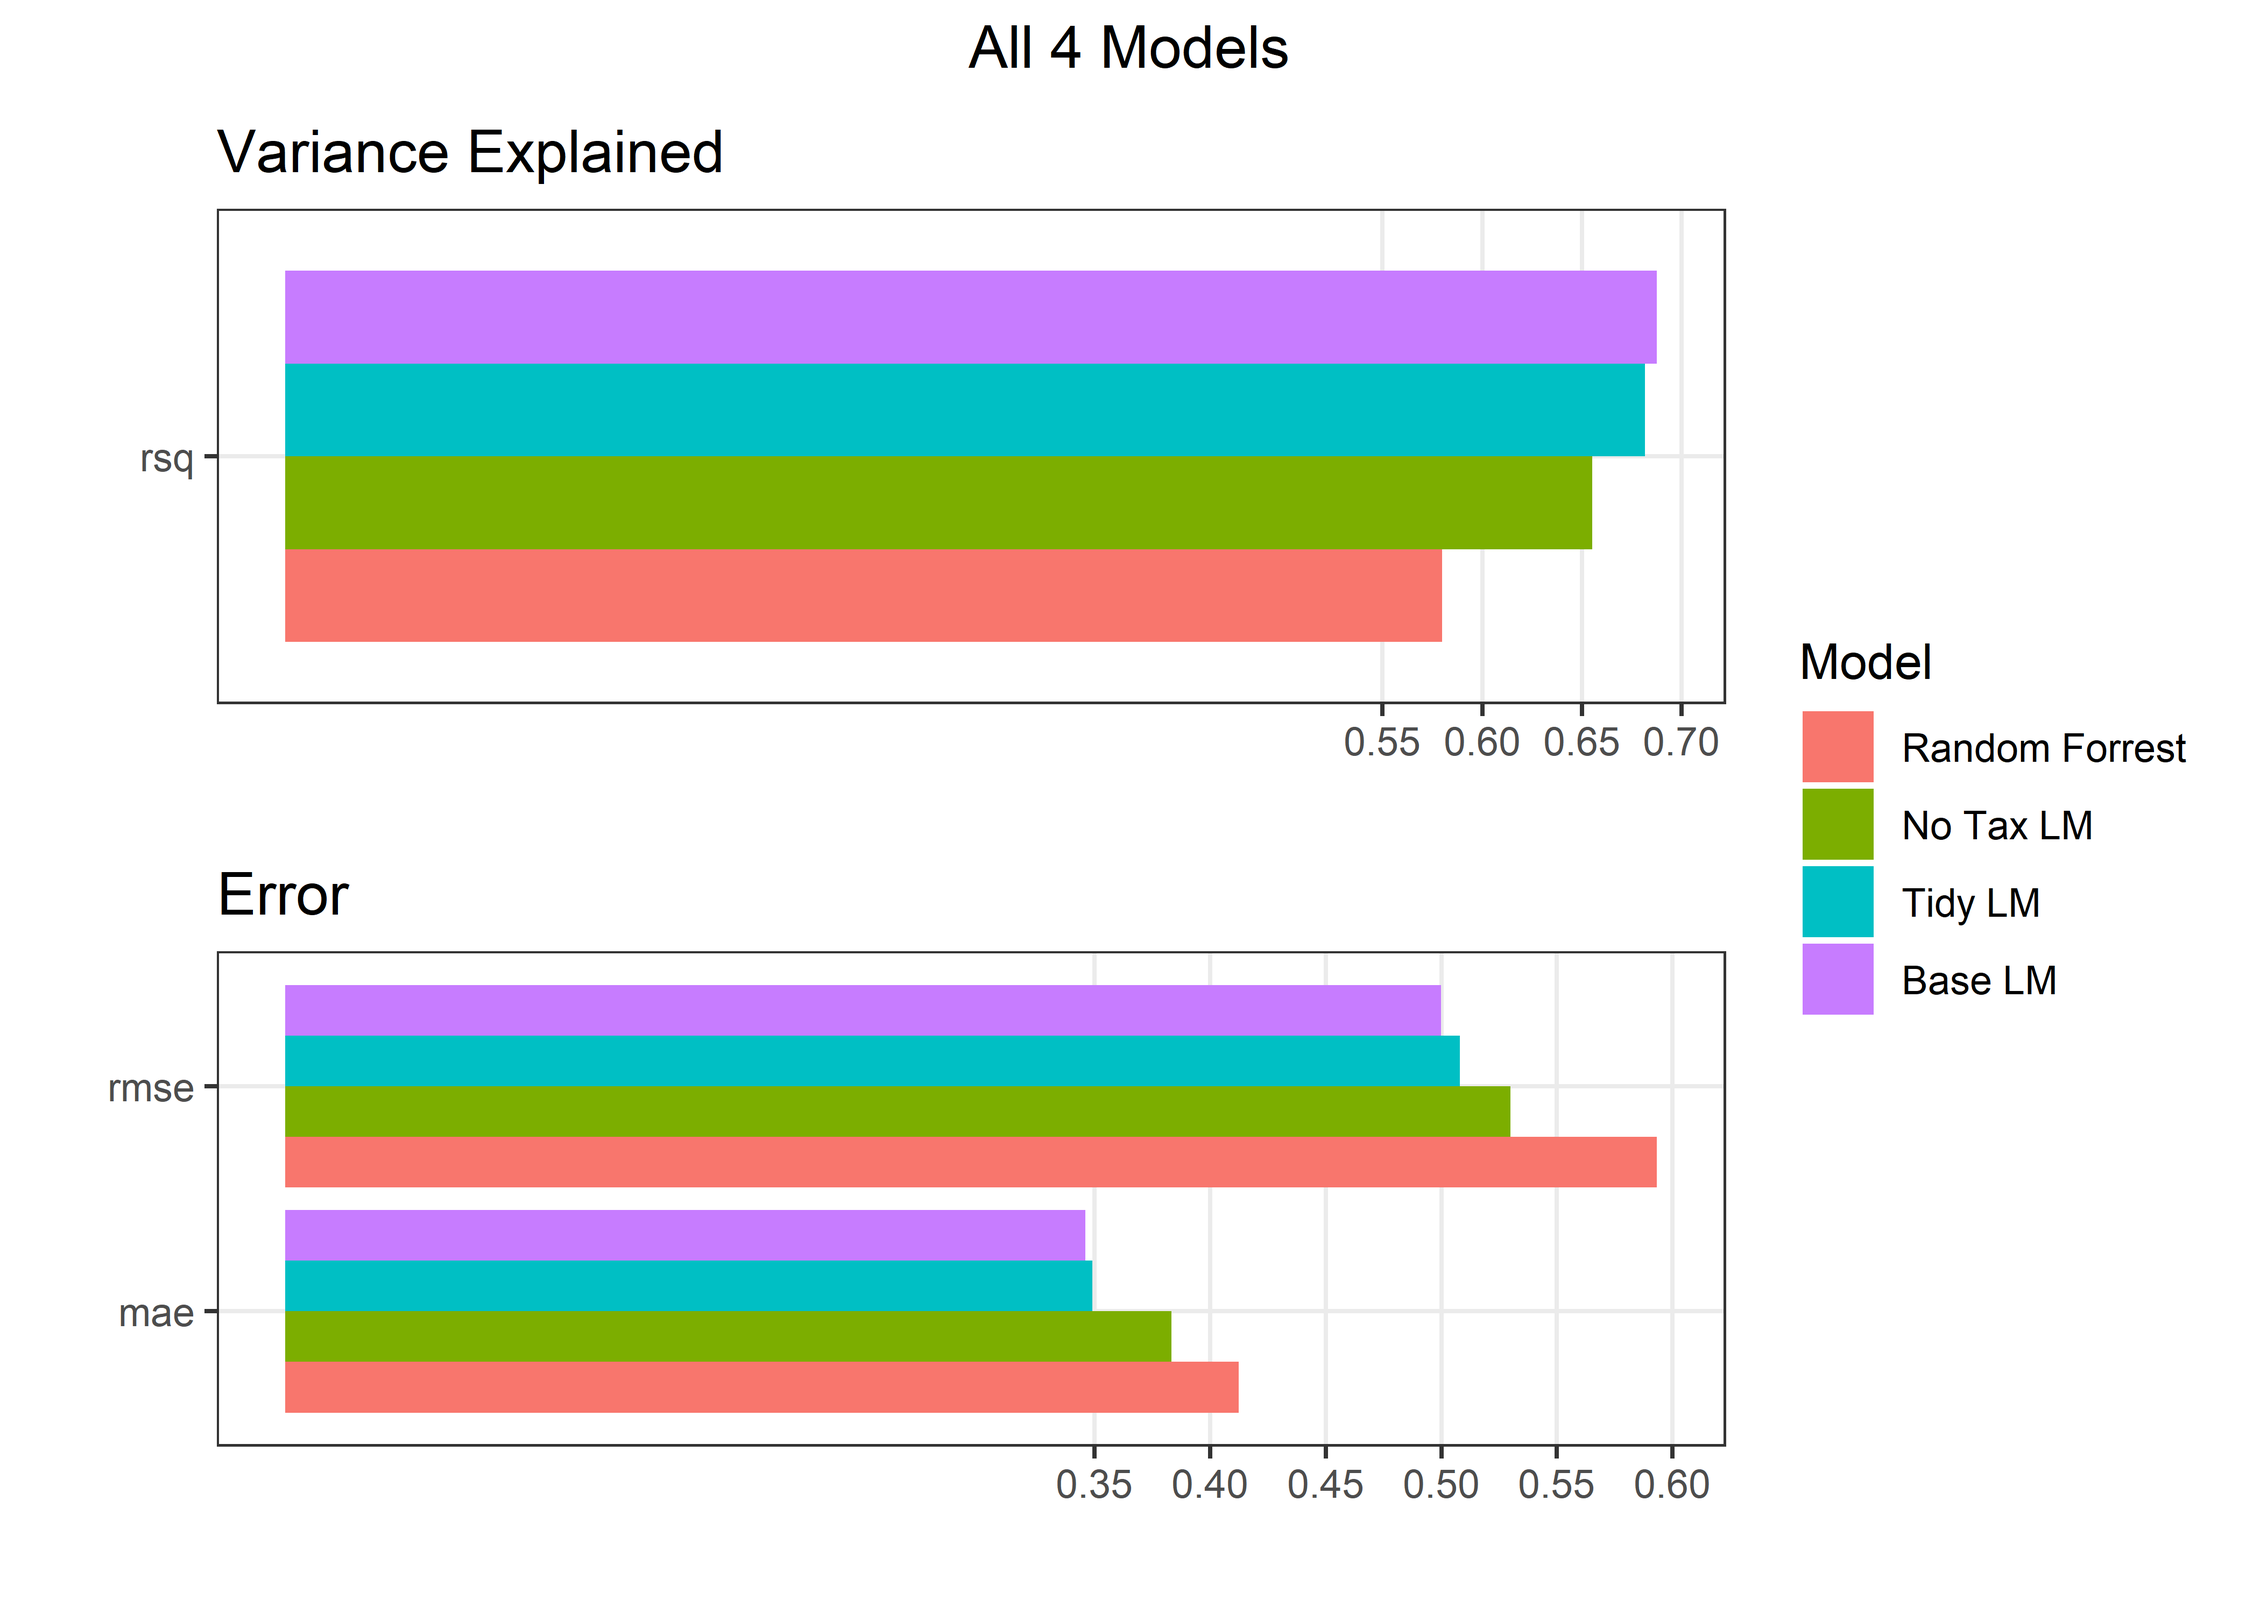
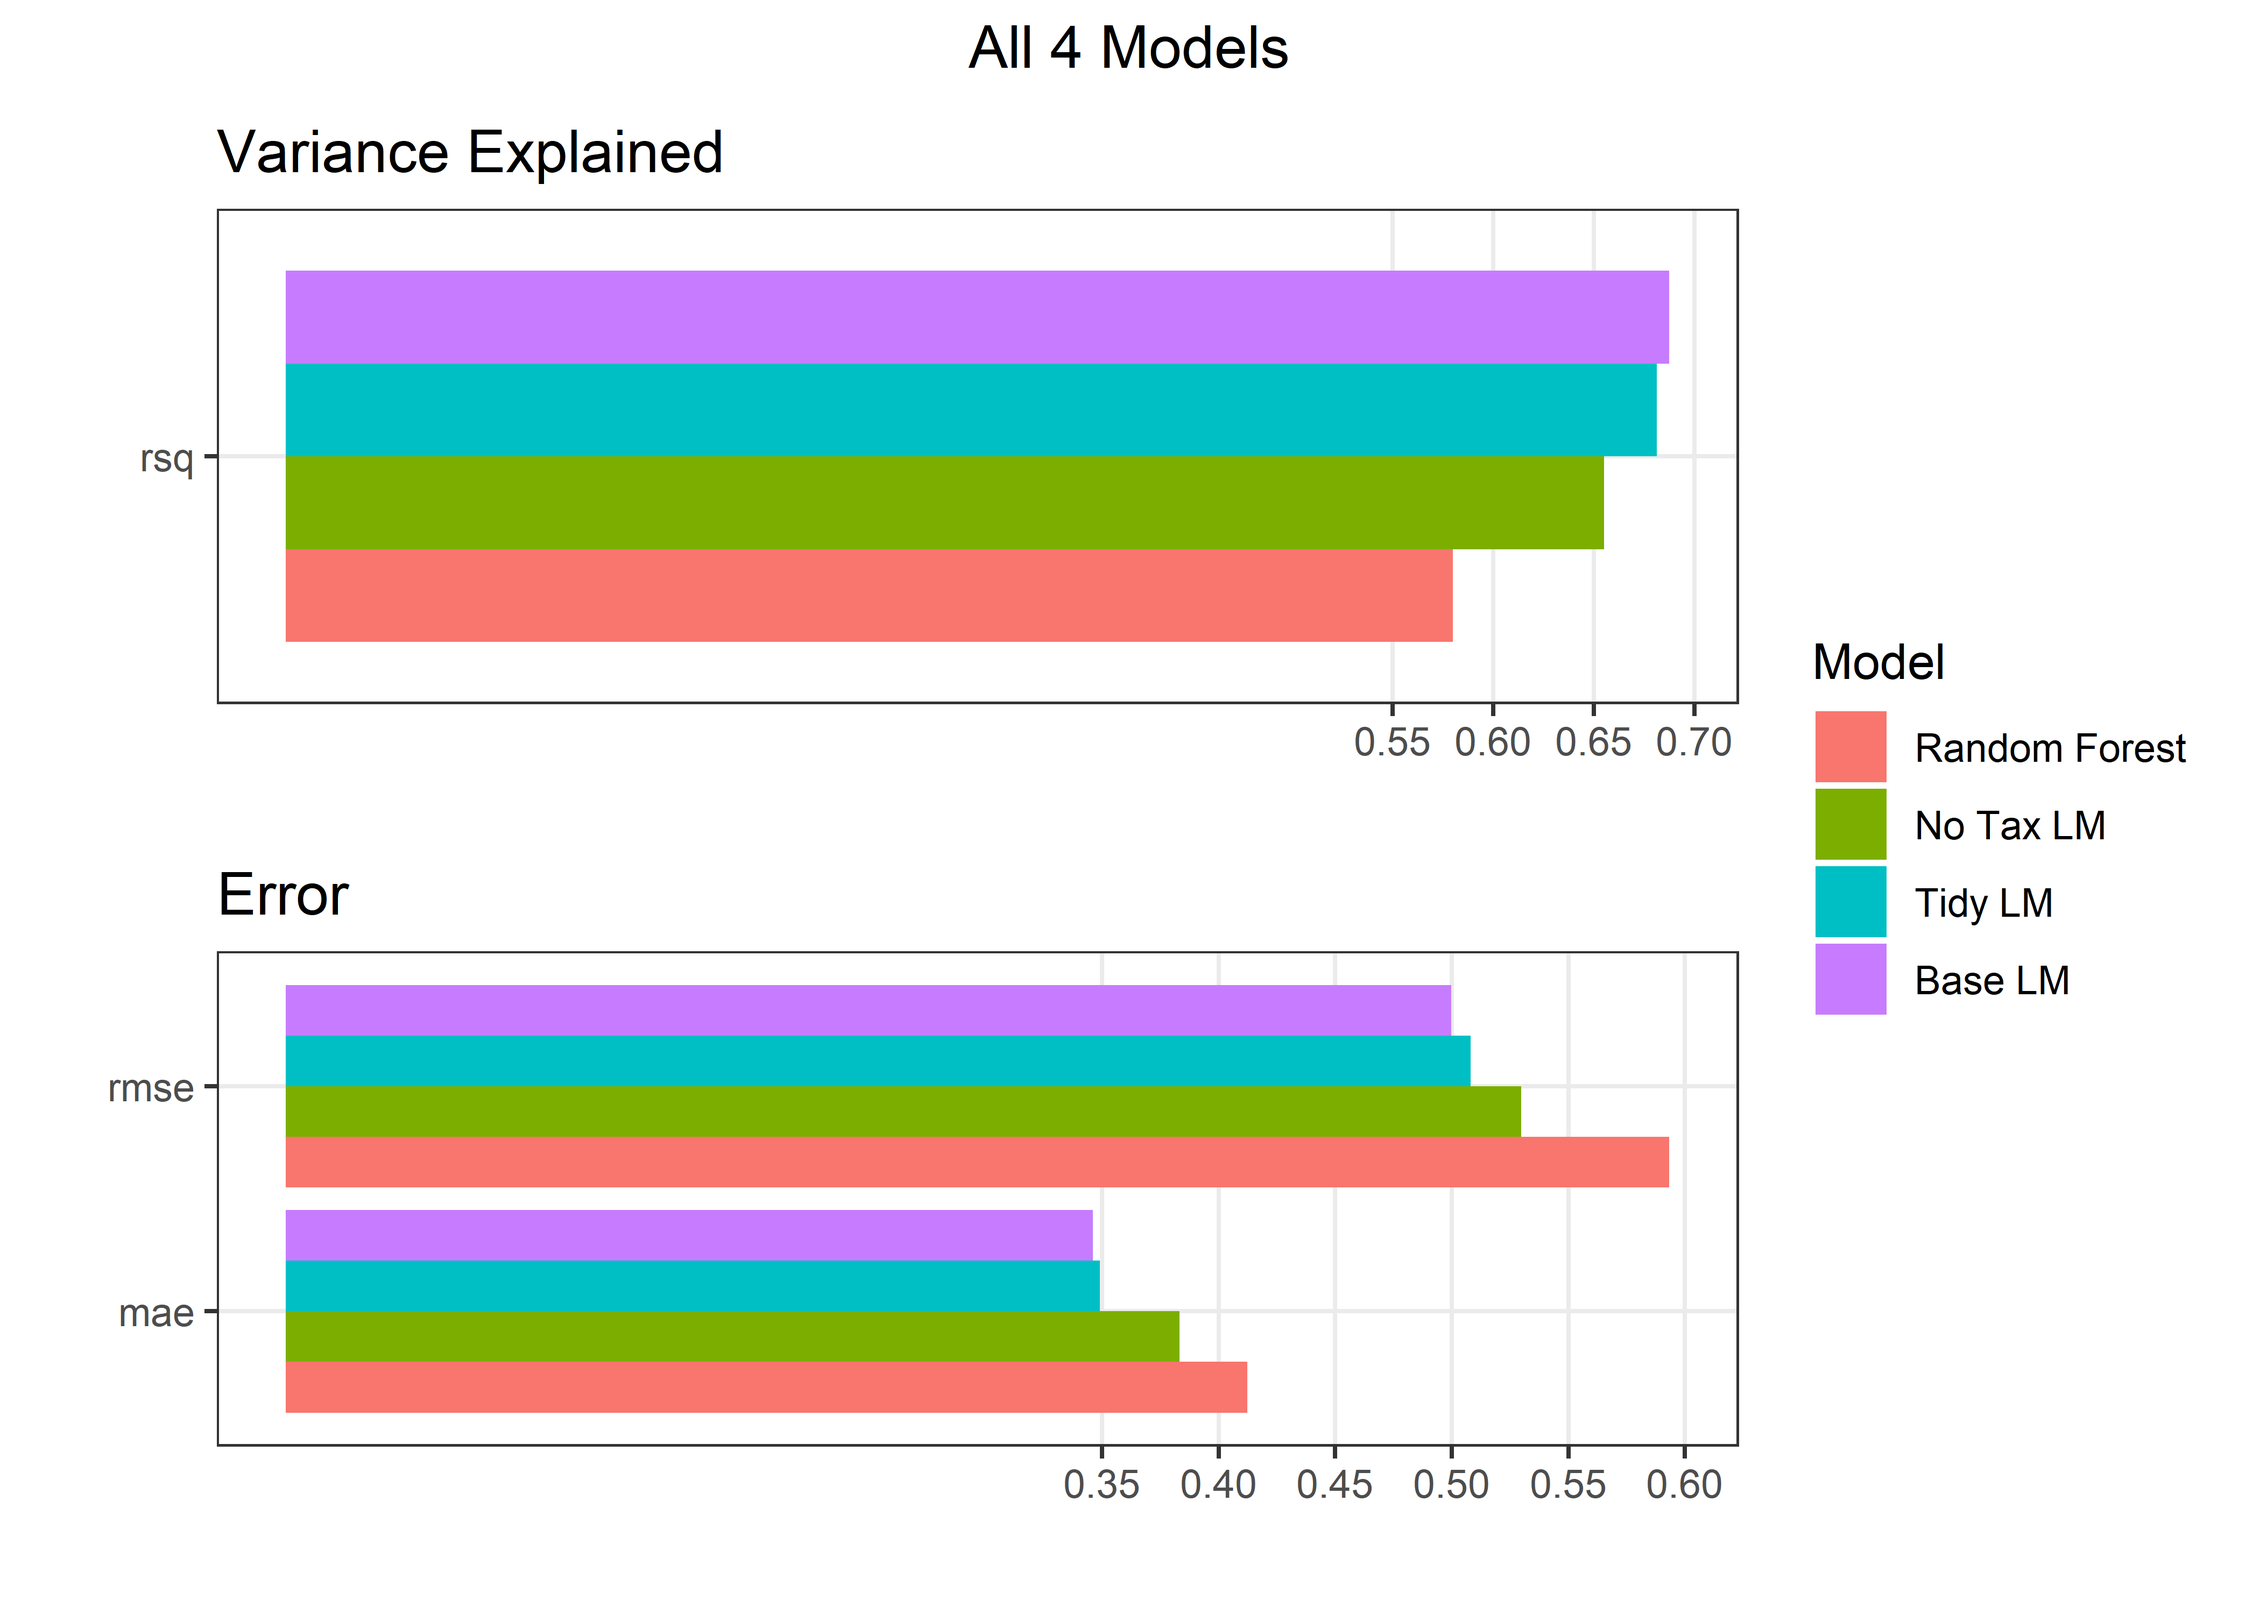
Spelling correction

diff --git a/NYC House Prices/NYCHousePrices.md b/NYC House Prices/NYCHousePrices.md
@@ -21,8 +21,8 @@ Matthew
         -   <a href="#analysis" id="toc-analysis">Analysis</a>
     -   <a href="#no-taxes" id="toc-no-taxes">No Taxes!</a>
 -   <a href="#borough" id="toc-borough">Borough?</a>
-    -   <a href="#dont-miss-the-forrest-for-the-trees"
-        id="toc-dont-miss-the-forrest-for-the-trees">Don’t miss the forrest for
+    -   <a href="#dont-miss-the-forest-for-the-trees"
+        id="toc-dont-miss-the-forest-for-the-trees">Don’t miss the forest for
         the trees</a>
 -   <a href="#just-let-gam-figure-it-out"
     id="toc-just-let-gam-figure-it-out">Just let Gam figure it out</a>
@@ -811,7 +811,7 @@ house %>%
 
 ![](NYCHousePrices_files/figure-gfm/unnamed-chunk-29-1.png)<!-- -->
 
-## Don’t miss the forrest for the trees
+## Don’t miss the forest for the trees
 
 ``` r
 house_mod <- house_mod %>% 
@@ -875,7 +875,7 @@ house_res2 <-
 
 all_metrics_rf <- all_metrics %>% 
   bind_rows(three_metrics(house_res2, price, .pred) %>% 
-              mutate(model = "Random Forrest")) %>%
+              mutate(model = "Random Forest")) %>%
   mutate(model = fct_reorder(model, .estimate, .fun = max))
 
 all_metrics_rf %>% 
@@ -883,19 +883,19 @@ all_metrics_rf %>%
 ```
 
     ## # A tibble: 12 x 4
-    ##    .metric .estimator .estimate model         
-    ##    <chr>   <chr>          <dbl> <fct>         
-    ##  1 rsq     standard       0.688 Base LM       
-    ##  2 rsq     standard       0.681 Tidy LM       
-    ##  3 rsq     standard       0.655 No Tax LM     
-    ##  4 rsq     standard       0.580 Random Forrest
-    ##  5 rmse    standard       0.593 Random Forrest
-    ##  6 rmse    standard       0.530 No Tax LM     
-    ##  7 rmse    standard       0.508 Tidy LM       
-    ##  8 rmse    standard       0.500 Base LM       
-    ##  9 mae     standard       0.412 Random Forrest
-    ## 10 mae     standard       0.383 No Tax LM     
-    ## 11 mae     standard       0.349 Tidy LM       
+    ##    .metric .estimator .estimate model        
+    ##    <chr>   <chr>          <dbl> <fct>        
+    ##  1 rsq     standard       0.688 Base LM      
+    ##  2 rsq     standard       0.681 Tidy LM      
+    ##  3 rsq     standard       0.655 No Tax LM    
+    ##  4 rsq     standard       0.580 Random Forest
+    ##  5 rmse    standard       0.593 Random Forest
+    ##  6 rmse    standard       0.530 No Tax LM    
+    ##  7 rmse    standard       0.508 Tidy LM      
+    ##  8 rmse    standard       0.500 Base LM      
+    ##  9 mae     standard       0.412 Random Forest
+    ## 10 mae     standard       0.383 No Tax LM    
+    ## 11 mae     standard       0.349 Tidy LM      
     ## 12 mae     standard       0.346 Base LM
 
 ``` r
@@ -1086,22 +1086,22 @@ And if you are wondering, its metrics did improve.
 ```
 
     ## # A tibble: 15 x 4
-    ##    .metric .estimator .estimate model         
-    ##    <chr>   <chr>          <dbl> <fct>         
-    ##  1 rsq     standard       0.860 GAM           
-    ##  2 rsq     standard       0.688 Base LM       
-    ##  3 rsq     standard       0.681 Tidy LM       
-    ##  4 rsq     standard       0.655 No Tax LM     
-    ##  5 rsq     standard       0.580 Random Forrest
-    ##  6 rmse    standard       0.593 Random Forrest
-    ##  7 rmse    standard       0.530 No Tax LM     
-    ##  8 rmse    standard       0.508 Tidy LM       
-    ##  9 rmse    standard       0.500 Base LM       
-    ## 10 rmse    standard       0.365 GAM           
-    ## 11 mae     standard       0.412 Random Forrest
-    ## 12 mae     standard       0.383 No Tax LM     
-    ## 13 mae     standard       0.349 Tidy LM       
-    ## 14 mae     standard       0.346 Base LM       
+    ##    .metric .estimator .estimate model        
+    ##    <chr>   <chr>          <dbl> <fct>        
+    ##  1 rsq     standard       0.860 GAM          
+    ##  2 rsq     standard       0.688 Base LM      
+    ##  3 rsq     standard       0.681 Tidy LM      
+    ##  4 rsq     standard       0.655 No Tax LM    
+    ##  5 rsq     standard       0.580 Random Forest
+    ##  6 rmse    standard       0.593 Random Forest
+    ##  7 rmse    standard       0.530 No Tax LM    
+    ##  8 rmse    standard       0.508 Tidy LM      
+    ##  9 rmse    standard       0.500 Base LM      
+    ## 10 rmse    standard       0.365 GAM          
+    ## 11 mae     standard       0.412 Random Forest
+    ## 12 mae     standard       0.383 No Tax LM    
+    ## 13 mae     standard       0.349 Tidy LM      
+    ## 14 mae     standard       0.346 Base LM      
     ## 15 mae     standard       0.248 GAM
 
 ``` r
